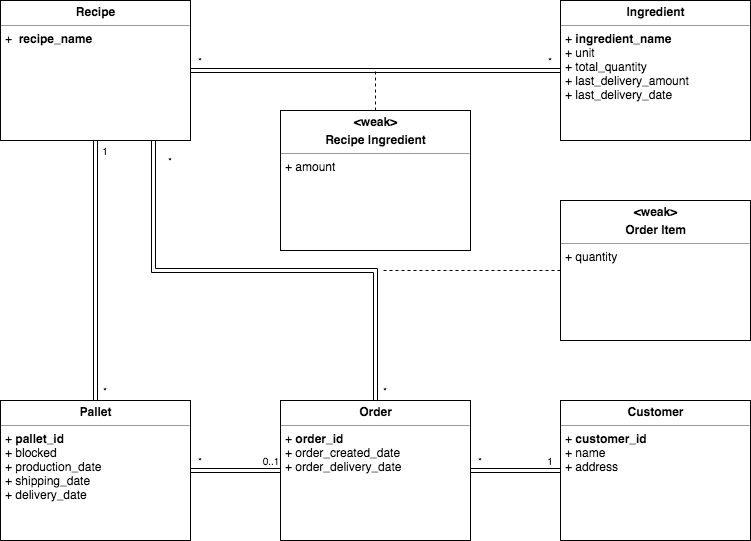
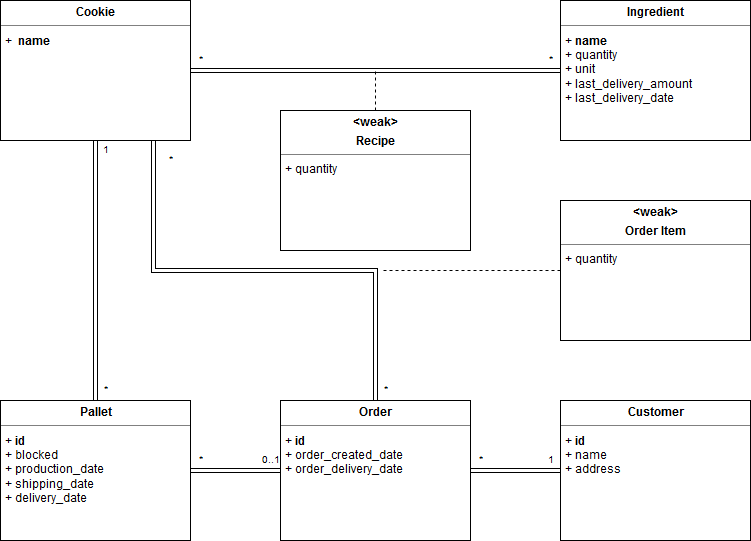
test

diff --git a/server/queries.py b/server/queries.py
@@ -2,9 +2,10 @@ from bottle import request, response
 from bottle import route
 from bottle import post, get, put, delete
 import json
+import datetime
 
 import sqlite3
-conn = sqlite3.connect("krustykookies.db")
+conn = sqlite3.connect("krusty-db.sqlite")
 
 
 def format_response(d):
@@ -39,34 +40,93 @@ def get_recipes():
 
 @post('/pallets')
 def create_pallet():
-    #Everything in the body of the request will be in data.
     data = request.json
+    cookie_name = data['cookie']
+
+    """
+    {
+        "status": "no such cookie"
+    }
+
+    {
+        "status": "not enough ingredients"
+    }
+
+    {
+        "status": "ok",
+        "id": "9ff0571af3ea2b12065946f57ddd4527"
+    }
+    """
+
+
+    c.execute(
+        """
+        INSERT
+        INTO    pallets(production_date, cookie_name)
+        VALUES  (?, ?)
+        """, [datetime.datetime.now().strftime("%Y-%m-%d"), cookie_name]
+    )
+    conn.commit()
+
     return
 
 @get('/pallets')
 def get_pallets():
+    """
+    Parameters:
+
+    after: restricts the search so we only get pallets produced after (not including) the given date
+
+    before: restricts the search so we only get pallets produced before (not including) the given date
+
+    cookie: restricts the search so we only get pallets with the given cookie
+
+    blocked: restricts the search so we only get pallets which are blocked or non-blocked -- 0 means non-blocked, 1 means blocked
+    """
+
     data = request.json
-    return
+    after = data['after']
+    before = data['before']
+    cookie_name = data['cookie']
+    blocked = data['blocked']
+
+    c = conn.cursor()
+    c.execute("""
+        SELECT  *
+        FROM    pallets
+        WHERE   (production_date > ? OR ? IS NULL) AND
+                (production_date < ? OR ? IS NULL) AND
+                (receipe_name = ? OR ? IS NULL) AND
+                (blocked = ? OR ? IS NULL)
+    """, [after, after, before, before, cookie_name, cookie_name, blocked, blocked])
+
+    s = [{
+        "id": id,
+        "cookie": cookie,
+        "productionDate": production_date,
+        "customer": customer,
+        "blocked": blocked
+    } for (id, cookie, prouction_date, customer, blocked) in c]
+
+    return format_response({'data': s})
 
 
-@route('/block/<cookie_name>/<from_date>/<to_date>',method=['GET','POST'])
+@route('/block/<cookie_name>/<from_date>/<to_date>', method=['GET','POST'])
 def block(cookie_name, from_date, to_date):
-    c = conn.cursor()
-    c.execute("""
-        UPDATE pallets
-        SET blocked = 1
-        WHERE recipe_name = ? AND production_date => ? AND production_date <= to_date?
-    """, [cookie_name, from_date, to_date])
+    setBlocked(1, cookie_name, from_date, to_date)
 
-
-@route('/unblock/<cookie_name>/<from_date>/<to_date>',method=['GET','POST'])
+@route('/unblock/<cookie_name>/<from_date>/<to_date>', method=['GET','POST'])
 def unblock(cookie_name, from_date, to_date):
+    setBlocked(0, cookie_name, from_date, to_date)
+
+def setBlocked(blocked, cookie_name, from_date, to_date):
     c = conn.cursor()
     c.execute("""
         UPDATE pallets
-        SET blocked = 0
-        WHERE recipe_name = ? AND production_date => ? AND production_date <= to_date?
-    """, [cookie_name, from_date, to_date])
+        SET blocked = ?
+        WHERE recipe_name = ? AND production_date => ? AND production_date <= ?
+    """, [blocked, cookie_name, from_date, to_date])
+    conn.commit()
 
 '''
 Old stuff

diff --git a/README.md b/README.md
@@ -3,13 +3,12 @@
 This is the report for
 
  + Daniel Regefalk, `ine15dre`
- + Fredrik Olsson, `ine15`
- + Gustav Handmark, ``
+ + Fredrik Olsson, `ine15fol`
+ + Gustav Handmark, `jup14gha`
 
 We solved this project on our own, except for:
 
  + The Peer-review meeting
- + ... describe any other help you've gotten ...
 
 
 ## ER-design
@@ -34,39 +33,22 @@ The model is in the file [`er-model.png`](er-model.png):
 
 ## Scripts to set up database
 
-The scripts used to set up and populate the database are in:
+The script used to set up the database is:
 
- + [`create-schema.sql`](create-schema.sql) (defines the tables), and
- + [`initial-data.sql`](initial-data.sql) (inserts data).
+ + [`server/database.sql`](server/database.sql) (defines the tables)
 
-So, to create and initialize the database, we run:
+To create the database, we run:
 
 ```shell
-sqlite3 krusty-db.sqlite < create-schema.sql
-sqlite3 krusty-db.sqlite < initial-data.sql
+sqlite3 server/krusty-db.sqlite < server/database.sql
 ```
 
-(or whatever you call your database file).
+Using the `/reset` endpoint populates the database.
 
 ## How to compile and run the program
 
-This section should give a few simple commands to type to
-compile and run the program from the command line, such as:
+Tun the program from the command line with:
 
 ```shell
-./gradlew run
-```
-
-or
-
-```shell
-javac -d bin/ -cp src src/krusty/Main.java
-java -cp bin:sqlite-jdbc.jar krusty.Main
-```
-
-or, if you put your commands into a `Makefile`:
-
-```shell
-make compile
-make run
+python3 server/server.py
 ```
